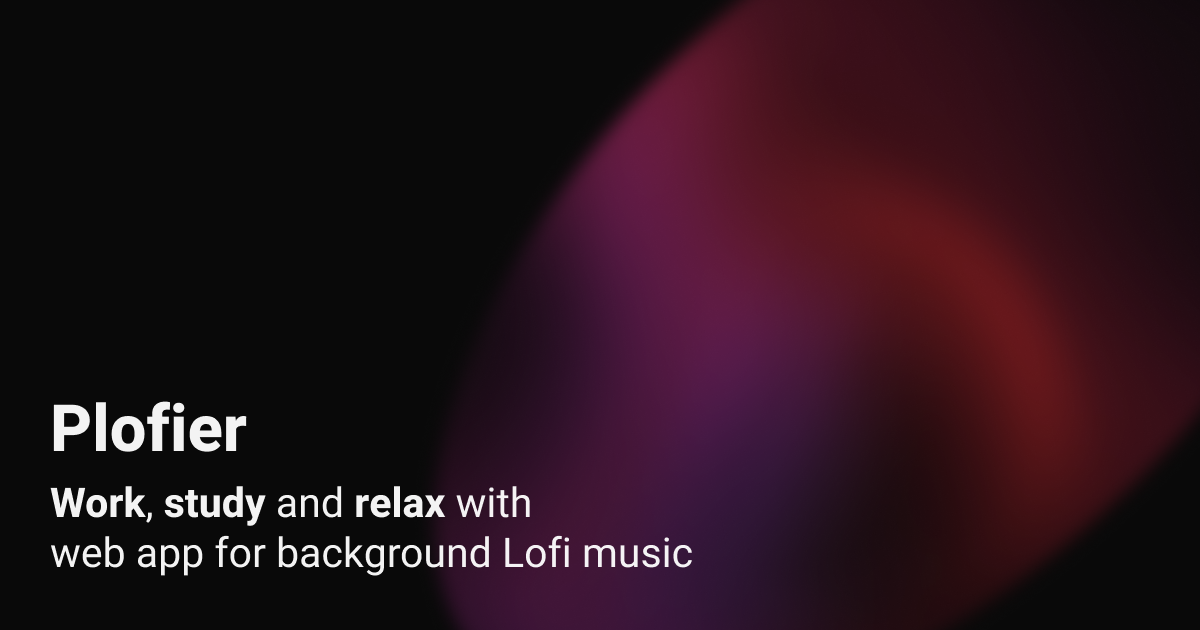
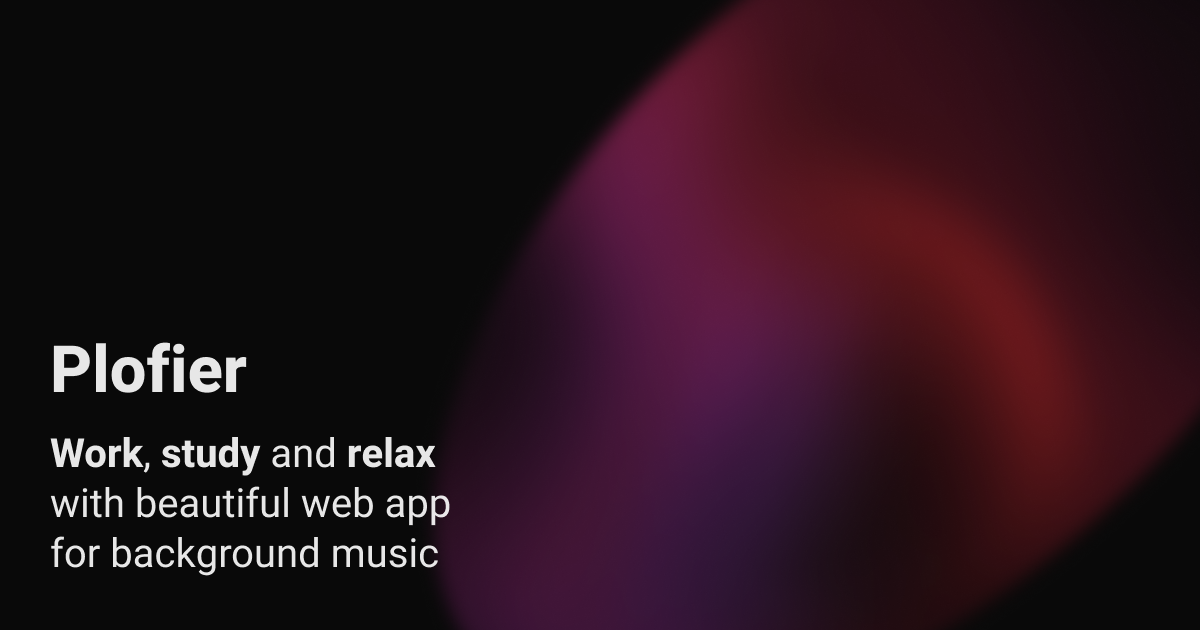
chore: update readme

Changed region(s): [[0.0308, 0.5429, 0.5858, 0.9349]]

diff --git a/README.md b/README.md
@@ -1,18 +1,1 @@
-<img src="git-preview.svg" width="75" />
-
-## Plofier
-
-A simple web app for background Lofi music from the [Box Radio](https://boxradio.net/).
-
-### Roadmap
-
-- [ ] write a normal readme
-- [ ] draw beautiful icons
-- [x] play background audio if launched from home screen
-- [x] create simple webgl visualization with `react-three-fiber`
-- [ ] add translations
-- [ ] add manual for Home Screen App
-
-### Tech
-
-[Next.js](https://nextjs.org/), [React Three Fiber](https://docs.pmnd.rs/react-three-fiber/) for background vizualization, [Tailwind CSS](https://tailwindcss.com/) and deployed with Vercel.
+<a href="https://boxradio.net/" _target="blank"><img src="./public/share_1200-630.png" /></a>
